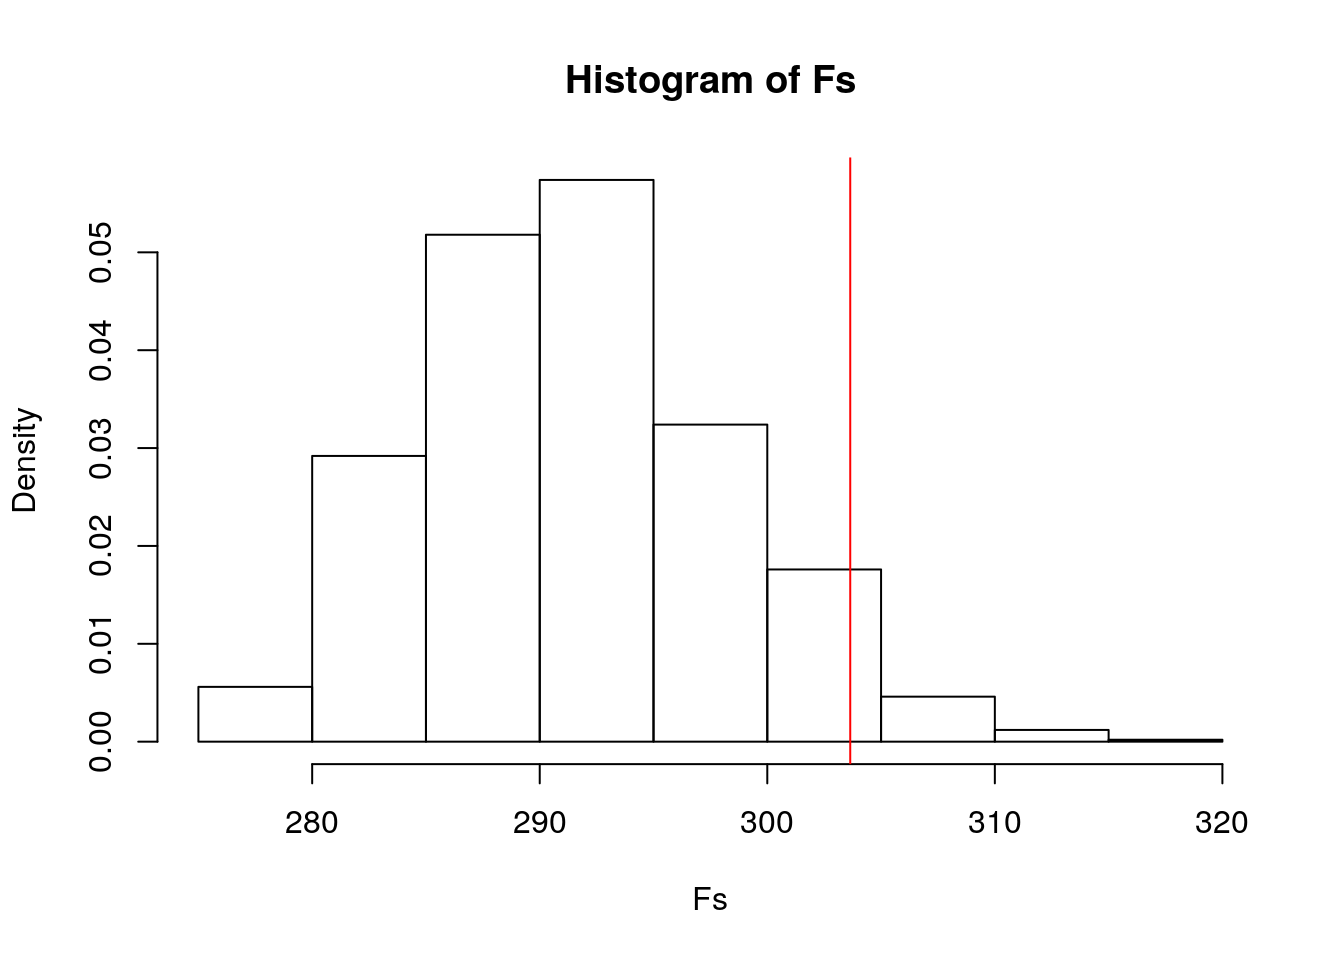
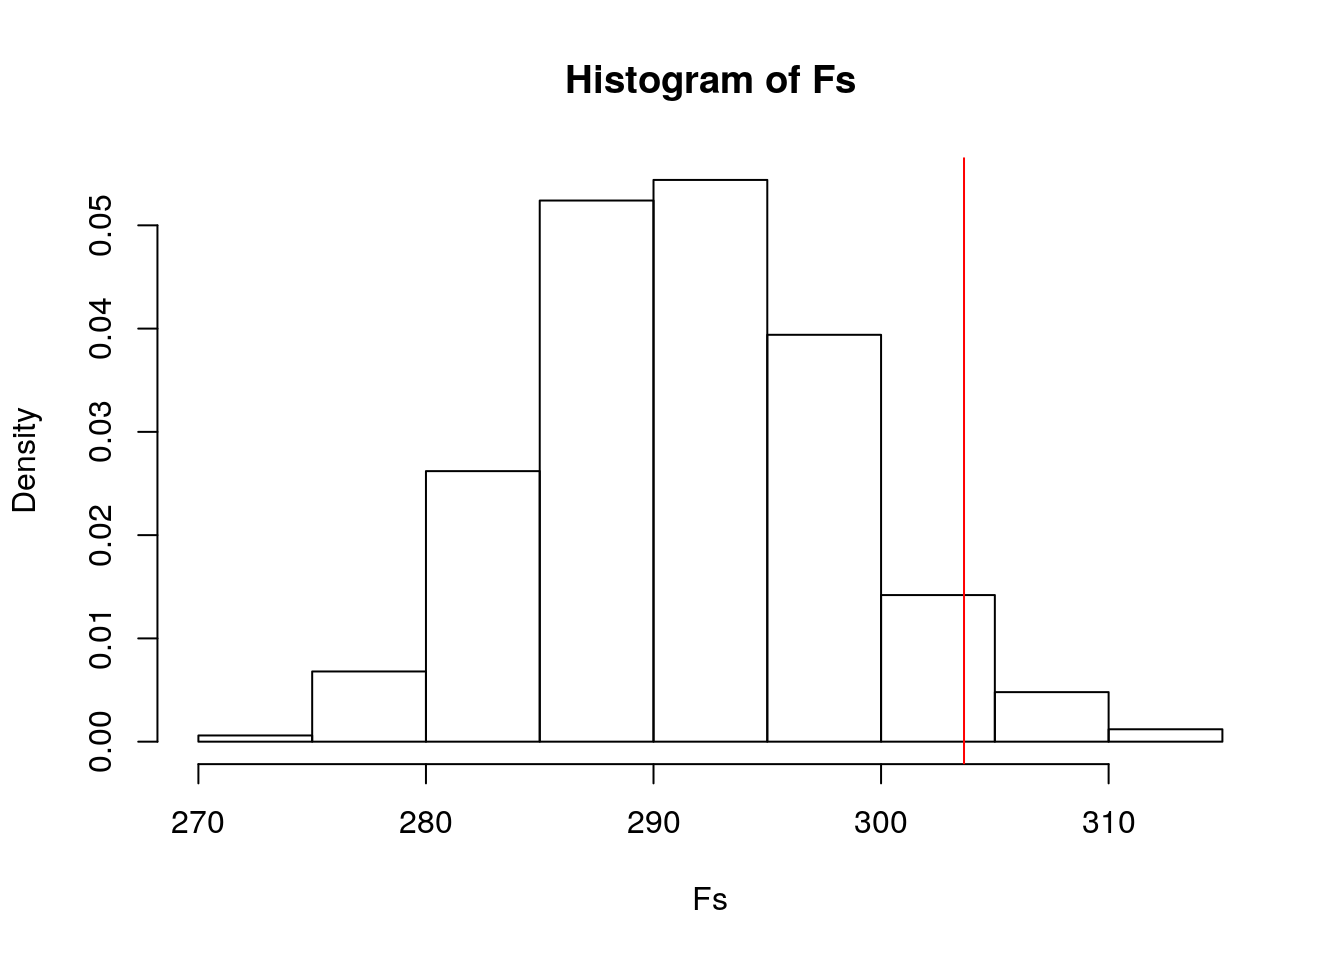
lets goo

diff --git a/project/project2/index.html b/project/project2/index.html
@@ -7,7 +7,7 @@
     <meta name="author" content="Adnan Jaber" />
     
     <link rel="shortcut icon" type="image/x-icon" href="../../img/favicon.ico">
-    <title>SDS348 Project 2</title>
+    <title>Project 2, SDS348 Fall 2020</title>
     <meta name="generator" content="Hugo 0.79.0" />
     <link rel="stylesheet" href="https://maxcdn.bootstrapcdn.com/bootstrap/3.3.7/css/bootstrap.min.css" integrity="sha384-BVYiiSIFeK1dGmJRAkycuHAHRg32OmUcww7on3RYdg4Va+PmSTsz/K68vbdEjh4u" crossorigin="anonymous">
     <link rel="stylesheet" type="text/css" href="../../css/main.css" />
@@ -54,13 +54,13 @@
       <div class="container">
         <div class="blog-post">
           <h3>
-            <strong><a href="../../project/project2/">SDS348 Project 2</a></strong>
+            <strong><a href="../../project/project2/">Project 2, SDS348 Fall 2020</a></strong>
           </h3>
         </div>
  
 <div class="blog-title">
           <h4>
-         January 1, 0001 
+         November 22, 2020 
             &nbsp;&nbsp;
             
           </h4>
@@ -358,7 +358,7 @@ summarize(sum(d[[1]]^2)/50 + sum(d[[2]]^2)/50+ sum(d[[3]]^2)/50)%&gt;%pull
 <p><img src="../../project/project2_files/figure-html/unnamed-chunk-4-1.png" width="672" /></p>
 <pre class="r"><code>#p-value
 mean(Fs&gt;F_obs)</code></pre>
-<pre><code>## [1] 0.044</code></pre>
+<pre><code>## [1] 0.049</code></pre>
 <p>The null hypothesis for my permanova test is: The group means for the number.of.times.pregnant, plasma.glucose.concentration, diastolic.blood.pressure.mmHg., tricep.skin.fold.thickness.mm., serum.insulin.mu.U.mL., diabetes.pedigree.function, and age.yrs. variables are equal across the different the categorical BMI groups.</p>
 <p>The alternative hypothesis for my permanova test is: The group means for at least any one of these variables: number.of.times.pregnant, plasma.glucose.concentration, diastolic.blood.pressure.mmHg., tricep.skin.fold.thickness.mm., serum.insulin.mu.U.mL., diabetes.pedigree.function, and age.yrs. variables are different across the different categorical BMI groups.</p>
 <p>Interpretation: Because our p-value (.042) is less then alpha (.05) we reject the null hypothesis. There is a difference in mean values in at least one of the variables across the different categorical BMI groups.</p>
@@ -451,7 +451,7 @@ coef(fit)
 #Estimated SEs 
 samp_distn %&gt;% t %&gt;% as.data.frame %&gt;% summarize_all(sd)</code></pre>
 <pre><code>##   (Intercept) diagnosis centeredGlucose diagnosis:centeredGlucose
-## 1   0.7772015  1.689739      0.02735034                0.04263956</code></pre>
+## 1   0.7982103  1.693185      0.02746316                0.04294078</code></pre>
 <p>The bootstrapped SEs are roughly equivalent to the corrected SEs. For all of the bootstrapped SEs except for the diagnosis, they are less than the uncorrected SEs. For areas where the SE decreases, the t-value will increase and the p-value will decrease. Opposite for increasing.</p>
 </div>
 <div id="part-5" class="section level1">

diff --git a/post/2020/12/11/important-physician-traits/index.html b/post/2020/12/11/important-physician-traits/index.html
@@ -72,7 +72,9 @@
               
 
 
-<p><img src="../../../../../post/2020-12-11-important-physician-traits_files/stethoscope-cartoon.png" /><img src="../../../../../2020-12-11-important-physician-traits/index_files/stethoscope-cartoon.png" /></p>
+<center>
+<img src="../../../../../post/2020-12-11-important-physician-traits_files/cartoon%20doctor.jpg" width="150" height="150" />
+</center>
 <p>Patient advocacy and cultural awareness are integral parts of medical training. Physicians are the caretakers of patients, and I strongly believe they should be their strongest advocates. Oftentimes physicians are criticized for not listening to their patients, being apathetic, and magisterial. Time after time, I hear these criticisms from friends and family about their terrible experiences with physicians, leaving them belittled rather than reassured. As a physician, I aspire to improve patient-physician interactions and advocate for a patient focused practice.</p>
 <p>In order to be a patient advocate, a physician must be able to understand the perspective, culture, and beliefs of their patient. A culturally aware physician is the best suited to treat patients, and will best understand what advocacy is needed.</p>
 <p>Integration of cultural awareness and patient advocacy with medical education should be mandatory; taking an active role in developing skills in both is incumbent upon every doctor in training. I strongly believe that these are the key ingredients for successful patient care.</p>
@@ -83,7 +85,8 @@
 seven = 7 
 seven + 2</code></pre>
 <pre><code>## 9</code></pre>
-<pre class="r"><code>library(emojifont)
+<pre class="r"><code>#R-Code 
+library(emojifont)
 emoji(search_emoji(&#39;smile&#39;))</code></pre>
 <pre><code>## [1] &quot;😃&quot; &quot;😄&quot; &quot;😅&quot; &quot;😺&quot; &quot;😸&quot;</code></pre>
 </div>

diff --git a/project/index.html b/project/index.html
@@ -59,12 +59,12 @@
               <div class="row">
                 <div class="col-sm-4 col-md-4 col-lg-4">
                   <h5 style="text-align: right">
-                    January 1, 0001
+                    November 22, 2020
                   </h5>
                  </div>
                  <div class="col-sm-8 col-md-8 col-lg-8">
                    <h5 style="text-align: left">
-                    <strong><a href="../project/project2/">SDS348 Project 2</a></strong>
+                    <strong><a href="../project/project2/">Project 2, SDS348 Fall 2020</a></strong>
                   </h5>
                 </div>
               </div>
@@ -72,7 +72,7 @@
               <div class="row">
                 <div class="col-sm-4 col-md-4 col-lg-4">
                   <h5 style="text-align: right">
-                    January 1, 0001
+                    October 18, 2020
                   </h5>
                  </div>
                  <div class="col-sm-8 col-md-8 col-lg-8">

diff --git a/index.html b/index.html
@@ -55,8 +55,8 @@
         <div class="avatar">
           <img class="img-circle" src="./img/pic.jpg" width="200">
         </div>
-        <h3>I'm <strong>Adnan Jaber</strong>, a Aspiring Doctor.</h3>
-        <h3>I&#39;m a half arab American from Austin, Texas. I&#39;m the sixth child out of seven in my family and I have two pets, a dog named Koda, and a cat named Muezza.</h3>
+        <h3>I'm <strong>Adnan Jaber</strong>, an Aspiring Doctor.</h3>
+        <h3>I&#39;m a half arab American from Austin, Texas. I&#39;m the sixth child out of seven in my family and I have two pets, a dog named Koda and a cat named Muezza.</h3>
         <h3>Have a look at some of my <a href="./projects/"> projects</a>.</h3>
         <h3>For more, check out my academic &amp; professional <a href="./resume/">resume</a>.</h3>
         <h3>To get in touch, contact me via email <a href="mailto:adnan.m.jaber@gmail.com">here</a>.</h3>

diff --git a/project/project1/index.html b/project/project1/index.html
@@ -60,7 +60,7 @@
  
 <div class="blog-title">
           <h4>
-         January 1, 0001 
+         October 18, 2020 
             &nbsp;&nbsp;
             
           </h4>
